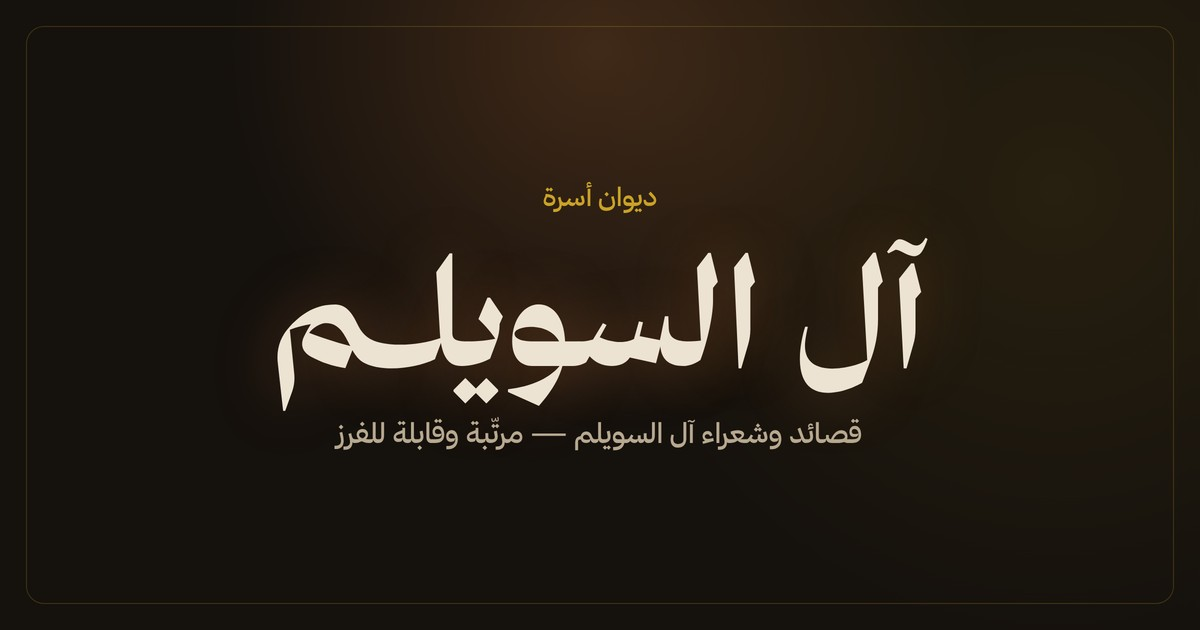
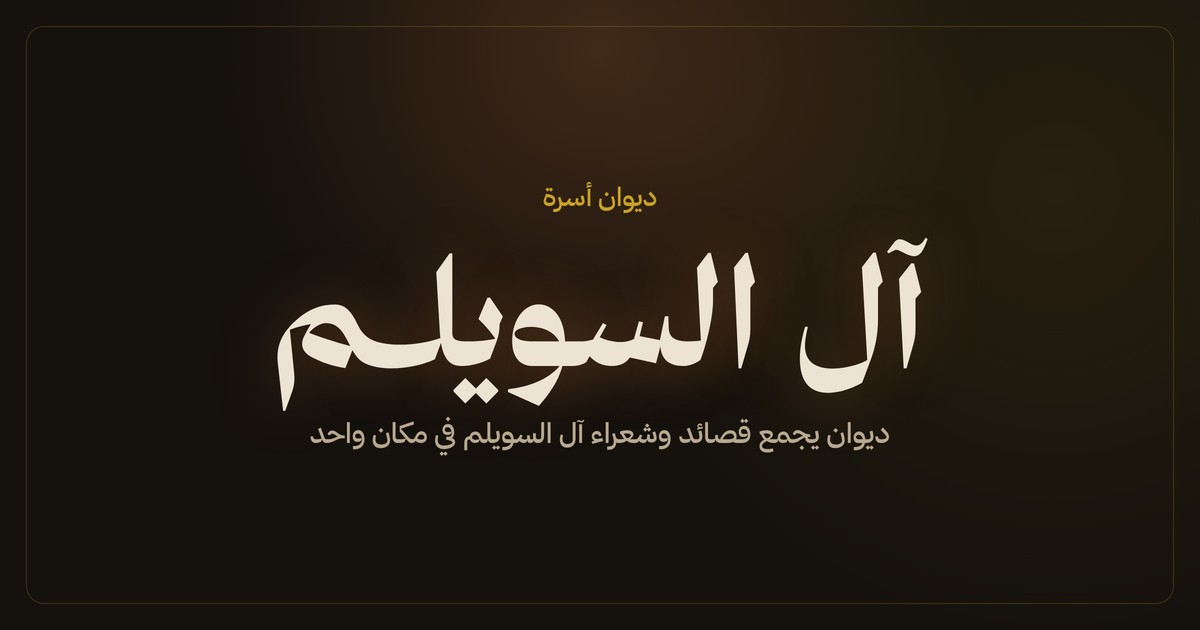
إصلاح: خلفية تصدير الأبيات كانت تتداخل مع النص + تحديث og-image
المشكلة اللي بلّغ عنها المستخدم: صورة تصدير الأبيات كانت تستخدم
og-image.jpg كخلفية مموّهة — لكن og-image.jpg نفسها فيها نص كبير
("آل السويلم" + الوصف القديم "مرتّبة وقابلة للفرز")، فكان يظهر شبح
هذا النص خلف البيت المُصدَّر ويشوّش عليه.

الحل الجذري بدل تعديل الشفافية فقط:
- الخلفية صارت تدرّج لوني بسيط بهوية الموقع (زي توهج ember-glow)
  بدون أي صورة أو نص عليها إطلاقاً — البيت يبقى واضح 100% دائماً
  بغض النظر عن محتواه.
- إعادة تصميم كاملة لتخطيط الصورة المُصدَّرة: "آل السويلـم" بخط ثمانية
  Serif Display بالأعلى (نفس معالجة عنوان الموقع)، البيت بالمنتصف،
  اسم الشاعر تحته، ورابط diwan-alswilem.com بالأسفل بوضوح — عشان أي
  شخص يشوف الصورة يعرف يرجع للموقع الأصلي.
- og-image.jpg نفسها أُعيد توليدها بنص الوصف المختصر الجديد (حذف
  "مرتّبة وقابلة للفرز" منها كمان، كانت لسا فيها من قبل التبسيط).

اختُبر بمتصفح حقيقي: تصدير ببيت واحد وببيتين، لا تداخل بصري، لا أخطاء
console.

Claude-Session: https://claude.ai/code/session_017BfbkEhfd2wm7QRZVBntHv

Changed region(s): [[0.2467, 0.6635, 0.74, 0.7238]]

diff --git a/js/app.js b/js/app.js
@@ -191,34 +191,21 @@ function wrapCanvasText(ctx, text, maxWidth) {
   return lines;
 }
 
-/* خلفية الصورة: صورة الديوان (og-image) مموّهة ومعتّمة — لو تعذّر تحميلها لأي سبب
-   (مثلاً تصفّح offline) نرجع لتدرّج بسيط بنفس هوية الموقع بدل ما توقف العملية كلها. */
-function drawBlurredBackground(ctx, size) {
-  return new Promise(resolve => {
-    const img = new Image();
-    img.onload = () => {
-      ctx.fillStyle = "#15110d";
-      ctx.fillRect(0, 0, size, size);
-      ctx.save();
-      ctx.filter = "blur(18px) brightness(0.55)";
-      const scale = Math.max(size / img.width, size / img.height) * 1.15;
-      const w = img.width * scale, h = img.height * scale;
-      ctx.drawImage(img, (size - w) / 2, (size - h) / 2, w, h);
-      ctx.restore();
-      ctx.fillStyle = "rgba(21,17,13,.42)";
-      ctx.fillRect(0, 0, size, size);
-      resolve();
-    };
-    img.onerror = () => {
-      const grad = ctx.createRadialGradient(size / 2, size * 0.15, 40, size / 2, size / 2, size * 0.8);
-      grad.addColorStop(0, "#3a2416");
-      grad.addColorStop(1, "#15110d");
-      ctx.fillStyle = grad;
-      ctx.fillRect(0, 0, size, size);
-      resolve();
-    };
-    img.src = "/assets/og-image.jpg";
-  });
+/* خلفية بسيطة بتدرّج هادئ بنفس هوية الموقع (زي توهج ember-glow) — بدون أي صورة أو
+   نص إضافي عليها، عشان البيت المُصدَّر يبقى واضح تماماً بدون أي تداخل بصري. */
+function drawGradientBackground(ctx, size) {
+  ctx.fillStyle = "#15110d";
+  ctx.fillRect(0, 0, size, size);
+  const glow = ctx.createRadialGradient(size * 0.5, size * 0.08, 10, size * 0.5, size * 0.4, size * 0.75);
+  glow.addColorStop(0, "rgba(217,128,63,.16)");
+  glow.addColorStop(1, "rgba(217,128,63,0)");
+  ctx.fillStyle = glow;
+  ctx.fillRect(0, 0, size, size);
+  const glow2 = ctx.createRadialGradient(size * 0.85, size * 0.28, 10, size * 0.85, size * 0.28, size * 0.5);
+  glow2.addColorStop(0, "rgba(201,162,39,.08)");
+  glow2.addColorStop(1, "rgba(201,162,39,0)");
+  ctx.fillStyle = glow2;
+  ctx.fillRect(0, 0, size, size);
 }
 
 async function exportSelectedVersesAsImage() {
@@ -237,29 +224,31 @@ async function exportSelectedVersesAsImage() {
     canvas.width = size; canvas.height = size;
     const ctx = canvas.getContext("2d");
 
-    await drawBlurredBackground(ctx, size);
+    drawGradientBackground(ctx, size);
     try {
+      await document.fonts.load('700 56px "Thmanyah Serif Display"');
       await document.fonts.load('500 48px "Thmanyah Serif Text"');
-      await document.fonts.load('700 28px "Thmanyah Sans"');
       await document.fonts.load('500 26px "Thmanyah Sans"');
+      await document.fonts.load('700 30px "Thmanyah Sans"');
     } catch { /* الخط الاحتياطي بالمتصفح يكفي لو تعذّر */ }
 
     ctx.direction = "rtl";
     ctx.textAlign = "center";
     ctx.textBaseline = "middle";
 
-    ctx.fillStyle = "#c9a227";
-    ctx.font = '700 30px "Thmanyah Sans", sans-serif';
-    ctx.fillText("ديوان آل السويلم", size / 2, 90);
+    // شعار الديوان أعلى الصورة — بخط ثمانية Serif Display بنفس معالجة عنوان الموقع
+    ctx.fillStyle = "#ede3d3";
+    ctx.font = '700 58px "Thmanyah Serif Display", serif';
+    ctx.fillText("آل السويلـم", size / 2, 110);
 
     ctx.strokeStyle = "rgba(201,162,39,.5)";
     ctx.lineWidth = 2;
     ctx.beginPath();
-    ctx.moveTo(size / 2 - 40, 130);
-    ctx.lineTo(size / 2 + 40, 130);
+    ctx.moveTo(size / 2 - 40, 168);
+    ctx.lineTo(size / 2 + 40, 168);
     ctx.stroke();
 
-    ctx.fillStyle = "#ede3d3";
+    ctx.fillStyle = "#f2ead9";
     const verseFontSize = verses.length > 1 ? 46 : 54;
     ctx.font = `500 ${verseFontSize}px "Thmanyah Serif Text", serif`;
     const maxTextWidth = size - 160;
@@ -272,21 +261,28 @@ async function exportSelectedVersesAsImage() {
       if (i < verses.length - 1) allLines.push("");
     });
 
+    const middleY = 168 + (size - 168 - 150) / 2 + 40;
     const totalHeight = allLines.length * lineHeight;
-    let y = size / 2 - totalHeight / 2 + lineHeight / 2;
+    let y = middleY - totalHeight / 2 + lineHeight / 2;
     allLines.forEach(line => {
       if (line) ctx.fillText(line, size / 2, y);
       y += lineHeight;
     });
 
-    ctx.fillStyle = "rgba(237,227,211,.75)";
+    ctx.fillStyle = "rgba(237,227,211,.8)";
     ctx.font = '500 26px "Thmanyah Sans", sans-serif';
-    ctx.fillText(poetName, size / 2, size - 110);
-    if (poemTitle) {
-      ctx.fillStyle = "rgba(201,162,39,.85)";
-      ctx.font = '400 22px "Thmanyah Sans", sans-serif';
-      ctx.fillText(poemTitle, size / 2, size - 72);
-    }
+    ctx.fillText(poetName, size / 2, size - 150);
+
+    ctx.strokeStyle = "rgba(201,162,39,.3)";
+    ctx.lineWidth = 1;
+    ctx.beginPath();
+    ctx.moveTo(size / 2 - 200, size - 108);
+    ctx.lineTo(size / 2 + 200, size - 108);
+    ctx.stroke();
+
+    ctx.fillStyle = "#c9a227";
+    ctx.font = '700 30px "Thmanyah Sans", sans-serif';
+    ctx.fillText("diwan-alswilem.com", size / 2, size - 66);
 
     const blob = await new Promise(resolve => canvas.toBlob(resolve, "image/png"));
     const url = URL.createObjectURL(blob);

diff --git a/index.html b/index.html
@@ -86,6 +86,6 @@
   </p>
 </footer>
 
-<script src="js/app.js?v=6"></script>
+<script src="js/app.js?v=7"></script>
 </body>
 </html>
